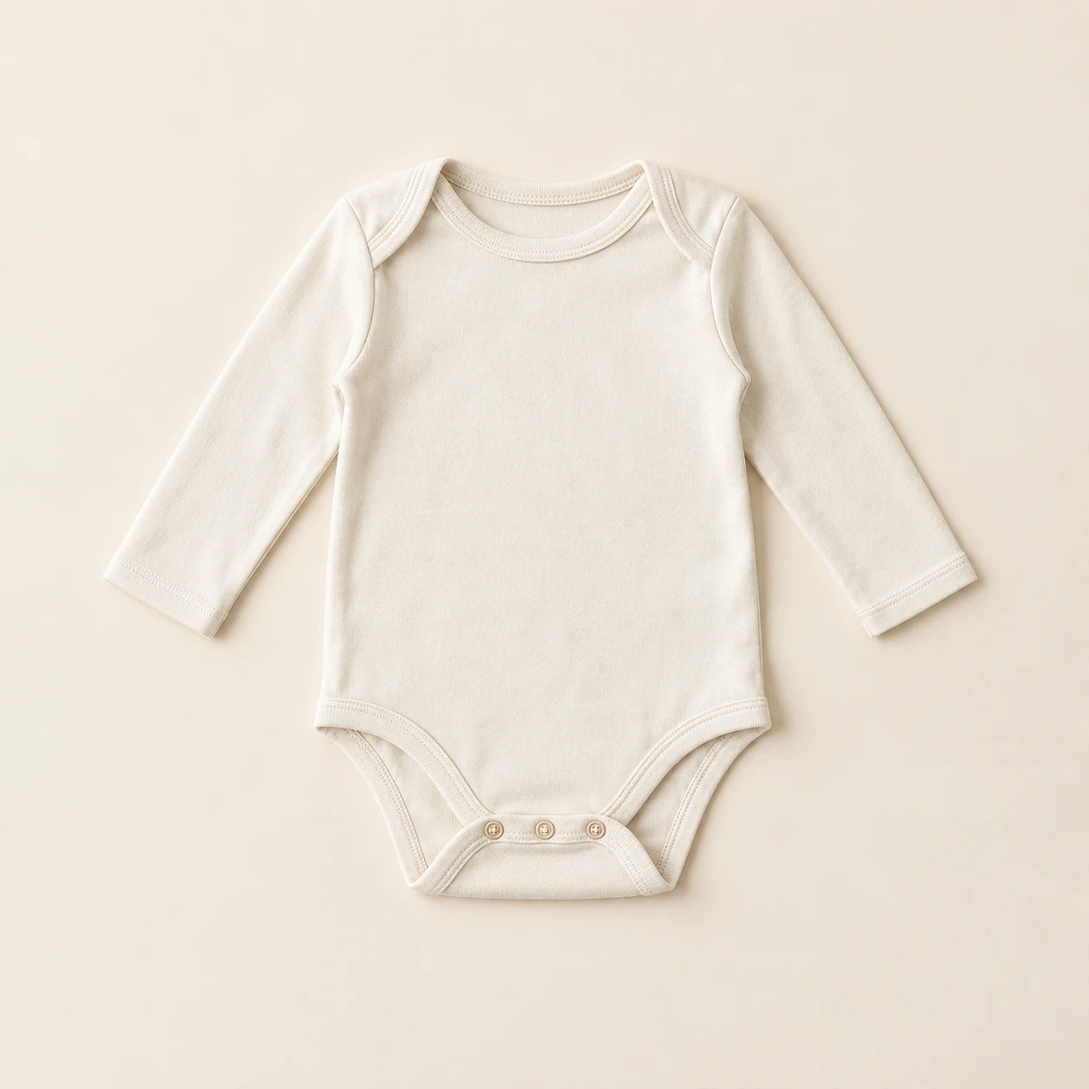
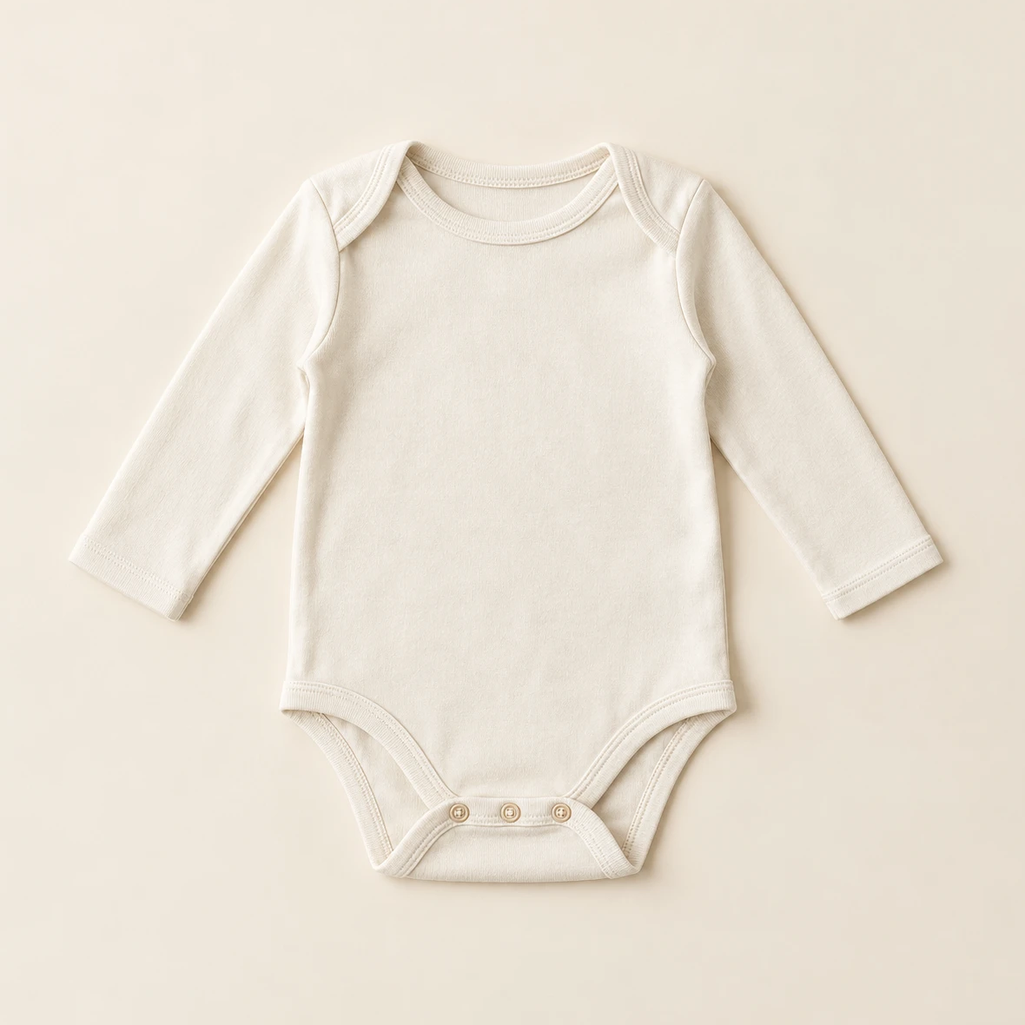
Make product-card image framing consistent: thin border, tighter crops
Two separate causes were behind the inconsistent-looking cards:

1. CSS: the pastel "matte" around each image was a fairly thick 14px
   inset, which read as a big colour block rather than a frame. Cut it
   down to a slim inset (6px, 5px on the smallest breakpoint) and
   turned the bottom-only accent into an actual border on all four
   sides, so every card gets the same thin coloured line around its
   photo rather than a lopsided patch of background colour.

2. Source photos: the seed images themselves weren't shot/cropped to
   a consistent subject-to-frame ratio. Most products filled ~85-90%
   of their canvas, but the sleepsuit photo only filled about 55% (a
   lot of empty backdrop above and below the garment) and the shoes
   photo had a similar issue plus a faint baked-in vignette rectangle.
   Cropped both tighter around the actual product so their apparent
   size now matches the rest of the catalogue.

Some residual difference in fill is unavoidable for products with very
different natural proportions (a pair of shoes is short and wide, a
sleepsuit is tall) inside a square frame — flagged to the user as a
photography-style-guide point for real product shoots at go-live:
shoot every item centred against the same backdrop with the product's
longest edge at a consistent percentage of the frame, so this stays
consistent without needing a crop fix later.

Claude-Session: https://claude.ai/code/session_01HTyTjFyGRUeSSR1UyPrw1p

diff --git a/app/globals.css b/app/globals.css
@@ -1,9 +1,9 @@
 @import url('https://fonts.googleapis.com/css2?family=DM+Sans:wght@400;500;600;700;800&family=Manrope:wght@400;500;600;700;800&display=swap');
 @import "tailwindcss";
-:root{--blue:#182bc4;--navy:#192a58;--sky:#e6ecff;--cream:#fcfaf6;--butter:#f8e994;--mint:#d1f1e3;--peach:#f7d5bf;--ink:#1d2d4a;--line:#d9dfeb;--background:#fff;--foreground:#1d2d4a;--muted-foreground:#65718a;--ring:#182bc4}*{box-sizing:border-box}html{scroll-behavior:smooth}body{margin:0;background:var(--cream);font-family:'DM Sans',Arial,sans-serif;color:var(--ink);font-size:16px}button,input,select{font:inherit}button{cursor:pointer}a{color:inherit;text-decoration:none}.tuck-app{min-height:100vh;overflow:hidden}.demo-ribbon{background:#ebefff;color:#36469e;font-size:12px;text-align:center;padding:8px 12px;font-weight:600;letter-spacing:.025em}.demo-ribbon span{padding:0 8px}.site-header{height:78px;background:#fff;display:flex;align-items:center;justify-content:space-between;padding:0 max(4vw,24px);gap:22px;border-bottom:1px solid var(--line);position:relative;z-index:2}.wordmark{border:0;background:none;display:flex;align-items:center;gap:10px;color:var(--blue);font-family:'Manrope',sans-serif;font-weight:800;font-size:34px;letter-spacing:-.09em;white-space:nowrap}.wordmark-icon{font-size:26px;letter-spacing:-.14em;width:42px;height:42px;border-radius:15px;background:var(--blue);color:white;display:grid;place-items:center;padding-right:4px;transform:rotate(-6deg)}.wordmark-icon span,.wordmark-dot{color:#faab76}.site-header nav{display:flex;align-items:center;gap:clamp(15px,2.5vw,40px);height:100%}.site-header nav button{border:0;background:none;height:100%;color:#4a5b7e;font-weight:700;font-size:14px;white-space:nowrap;border-bottom:3px solid transparent}.site-header nav button:hover,.site-header nav .nav-active{color:var(--blue);border-bottom-color:var(--blue)}.header-actions{display:flex;gap:14px;align-items:center}.header-actions button{border:0;background:none;display:flex;align-items:center;gap:7px;color:var(--blue);font-size:14px;font-weight:700}.mini-count{font-size:12px}.header-actions .basket-button{background:var(--butter);padding:13px 15px;border-radius:12px;color:var(--ink)}.basket-button b{background:var(--blue);color:white;border-radius:50%;width:22px;height:22px;font-size:12px;display:grid;place-items:center}.utility-bar{height:43px;background:white;border-bottom:1px solid var(--line);padding:0 max(4vw,24px);display:flex;align-items:center;justify-content:space-between;color:#53617b;font-size:12px}.utility-bar>div{display:flex;align-items:center;gap:7px}.utility-bar button{border:0;background:none;color:var(--blue);display:flex;gap:5px;align-items:center;font-weight:700;text-decoration:underline;text-underline-offset:3px}.hero{display:grid;grid-template-columns:47% 53%;min-height:480px;background:#eef0ff}.hero-content{padding:74px 6vw 64px max(5vw,28px);display:flex;flex-direction:column;align-items:flex-start;justify-content:center}.kicker{font-size:12px;font-weight:800;letter-spacing:.16em;color:var(--blue);margin:0 0 18px}.hero h1,.section-hero h1,.account-heading h1{font-family:'Manrope',sans-serif;font-size:clamp(55px,5.8vw,94px);line-height:.99;letter-spacing:-.075em;color:var(--blue);font-weight:800;margin:0 0 25px}.hero h1 i,.section-hero h1 i{font-style:normal;color:#e37f58}.hero-content>p:not(.kicker){max-width:450px;font-size:17px;line-height:1.65;color:#536485;margin:0 0 30px}.hero-actions{display:flex;align-items:center;gap:24px;flex-wrap:wrap}.hero-actions button:first-child,.section-hero>button{border:0;background:var(--blue);color:white;border-radius:12px;padding:17px 21px;display:flex;align-items:center;gap:28px;font-weight:800;font-size:14px}.hero-actions button:last-child{border:0;background:none;color:var(--blue);font-weight:800;font-size:14px}.hero-art{position:relative;overflow:hidden;min-height:480px;background:#b9c2f6}.hero-art img{width:100%;height:100%;object-fit:cover}.hero-sticker{position:absolute;right:6%;bottom:8%;background:var(--butter);width:160px;height:160px;border-radius:50%;display:grid;place-items:center;text-align:center;transform:rotate(12deg);font-family:'Manrope',sans-serif;font-size:20px;font-weight:800;line-height:1.1;letter-spacing:-.05em;color:var(--blue);box-shadow:0 10px 24px #2d3d8930}.journey-strip{display:grid;grid-template-columns:repeat(3,minmax(0,1fr));gap:2px;background:#dfe5ed;border-top:1px solid var(--line);border-bottom:1px solid var(--line)}.journey-strip button{background:#fff;border:0;display:grid;grid-template-columns:auto 1fr auto;grid-template-rows:auto auto;align-items:center;column-gap:15px;text-align:left;padding:26px max(2vw,15px);color:var(--ink);transition:background .2s}.journey-strip button:hover{background:#f4f6ff}.journey-strip span{grid-row:1/3;font-family:'Manrope',sans-serif;font-size:27px;font-weight:800;color:#9aa8dc}.journey-strip b{font-family:'Manrope',sans-serif;font-size:17px;letter-spacing:-.035em}.journey-strip small{grid-column:2;color:#74809a;font-size:12px}.journey-strip svg{grid-column:3;grid-row:1/3;color:var(--blue);width:18px}.section-hero{min-height:380px;padding:65px 6%;display:flex;flex-direction:column;align-items:flex-start;justify-content:center}.section-hero h1{font-size:clamp(49px,5vw,76px);margin-bottom:16px}.section-hero>p{max-width:520px;line-height:1.65;color:#4e5e7c;margin:0 0 24px}.repeat-hero{background:linear-gradient(105deg,#e0faed 0%,#e0faed 58%,#b8e3cd 58%,#d4f0dd 100%)}.repeat-hero h1 i{color:#268e72}.hire-hero{background:linear-gradient(105deg,#fce7dc 0%,#fce7dc 58%,#f2c3a8 58%,#fbe0d1 100%)}.benefit-line{display:flex;justify-content:center;gap:clamp(20px,6vw,100px);flex-wrap:wrap;padding:19px;background:#fff;color:#4c5e80;font-weight:700;font-size:13px}.benefit-line span{display:flex;align-items:center;gap:9px}.benefit-line svg{color:var(--blue)}.catalogue{padding:75px max(4vw,20px) 110px;max-width:1600px;margin:0 auto}.catalogue-heading{display:flex;justify-content:space-between;align-items:end;gap:20px;margin-bottom:32px}.catalogue-heading h2,.delivery-section h2{font-family:'Manrope',sans-serif;font-size:clamp(33px,3.3vw,54px);font-weight:800;line-height:1.12;letter-spacing:-.065em;color:var(--blue);margin:0 0 12px}.catalogue-heading p:not(.kicker){color:#67748a;margin:0}.result-count{font-size:13px;color:#6a7a91;white-space:nowrap}.category-nav{display:flex;gap:9px;overflow:auto;padding-bottom:17px;border-bottom:1px solid var(--line)}.category-nav button{padding:11px 17px;border-radius:25px;border:1px solid #cbd4e5;background:#fff;white-space:nowrap;font-weight:700;color:#576781;font-size:13px}.category-nav button.selected{color:#fff;background:var(--blue);border-color:var(--blue)}.catalogue-tools{display:flex;justify-content:space-between;gap:15px;padding:17px 0 26px;align-items:center}.catalogue-search{border:1px solid #cad4e8;background:white;border-radius:9px;padding:0 15px;height:48px;display:flex;align-items:center;gap:10px;min-width:min(380px,100%)}.catalogue-search svg{color:#8491aa}.catalogue-search input{border:0;outline:0;background:transparent;width:100%;font-size:14px;color:var(--ink)}.catalogue-tools>div{display:flex;gap:10px}.catalogue-tools>div label{height:48px;border:1px solid #cad4e8;border-radius:9px;background:white;padding:0 12px;display:flex;align-items:center;gap:9px;font-size:13px;font-weight:700;color:#6a7891}.catalogue-tools select{border:0;background:transparent;outline:0;color:var(--ink);font-size:13px;font-weight:700;min-width:0;flex:1}.product-grid{display:grid;grid-template-columns:repeat(4,minmax(0,1fr));gap:26px 17px}.product-card{background:#fff;border:1px solid #dfe4eb;border-radius:16px;overflow:hidden;display:flex;flex-direction:column;transition:box-shadow .2s,transform .2s;transform:translateZ(0);-webkit-transform:translateZ(0);-webkit-backface-visibility:hidden}@media(hover:hover) and (pointer:fine){.product-card:hover{box-shadow:0 16px 35px #263b741a;transform:translateY(-3px)}}.image-wrap{position:relative;aspect-ratio:1;padding:14px;background:#f3f2ed;overflow:hidden;transform:translateZ(0);-webkit-transform:translateZ(0);-webkit-backface-visibility:hidden}.image-button{border:0;padding:0;width:100%;height:100%;display:block}.product-image{width:100%;height:100%;object-fit:contain;display:block;background-color:#f4f1e9}.image-wrap .product-image{transition:transform .3s}@media(hover:hover) and (pointer:fine){.image-button:hover .product-image{transform:scale(1.045)}}.pill{position:absolute;top:11px;left:11px;background:var(--butter);color:var(--blue);font-size:10px;font-weight:800;padding:8px 11px;border-radius:7px;text-transform:uppercase;letter-spacing:.035em}.heart{position:absolute;right:11px;top:11px;background:#fff;border:0;border-radius:50%;width:35px;height:35px;display:grid;place-items:center;color:var(--blue)}.heart.saved{color:#ea785e}.product-details{display:flex;flex-direction:column;flex:1;padding:17px 17px 16px}.product-details>small{color:#74829a;font-size:12px;margin-bottom:7px}.product-details>button:not(.card-add){border:0;background:none;text-align:left;font-family:'Manrope',sans-serif;font-weight:800;color:var(--ink);font-size:17px;letter-spacing:-.035em;line-height:1.3;padding:0}.product-details>p{font-size:12px;color:#73819a;margin:8px 0 16px}.product-details>p span{padding:0 3px}.product-price{display:flex;align-items:baseline;gap:8px;margin-top:auto;margin-bottom:14px}.product-price strong{font-size:21px;font-family:'Manrope',sans-serif;letter-spacing:-.055em;color:var(--blue)}.product-price span{font-size:11px;color:#75839a}.low-stock{display:block;color:#e38162;font-size:11px;font-weight:700;margin:-8px 0 10px}.card-add{border:0;background:var(--butter);color:var(--blue);padding:12px 13px;border-radius:9px;font-size:13px;font-weight:800;display:flex;align-items:center;justify-content:space-between;width:100%}.card-add:hover{background:#f5dc66}.no-results{text-align:center;background:#fff;padding:70px}.no-results h3{font-size:23px}.no-results button{background:var(--blue);color:#fff;border:0;padding:12px 18px;border-radius:8px}.delivery-section{display:grid;grid-template-columns:minmax(0,1fr) minmax(0,1fr);gap:8%;padding:85px max(6vw,24px);background:#e8f1ff}.delivery-section h2 i{font-style:normal;color:#e38162}.delivery-section>div:first-child>p:not(.kicker){max-width:450px;line-height:1.7;color:#566782}.delivery-box{background:#fff;border-radius:18px;padding:32px;box-shadow:0 15px 30px #152a8120;display:flex;flex-direction:column;justify-content:center}.delivery-box>label{font-weight:800;font-size:14px}.postcode-row{display:flex;gap:9px;margin:13px 0}.postcode-row input{min-width:0;flex:1;border:1px solid #bbc8e0;border-radius:8px;padding:13px 15px;text-transform:uppercase}.postcode-row button{border:0;background:var(--blue);color:white;border-radius:8px;padding:0 17px;display:flex;align-items:center;gap:8px;font-weight:800;flex:none}.slot-intro{font-size:13px;font-weight:700;margin-top:21px}.slots{display:grid;grid-template-columns:repeat(2,minmax(0,1fr));gap:8px}.slots button{padding:12px 8px;background:#f4f6ff;border:1px solid #cad3ed;color:#3d5085;border-radius:7px;font-size:12px;font-weight:700}.slots button.picked{background:#e1f7e9;border-color:#309977}.delivery-box>small{display:block;color:#8290a4;margin-top:13px;font-size:11px}.account-page{padding:70px max(4vw,20px) 110px;max-width:1450px;margin:auto}.account-heading h1{font-size:clamp(45px,5vw,70px)}.account-heading>p:last-child{color:#65748e}.account-grid{display:grid;grid-template-columns:minmax(0,1.2fr) minmax(0,1fr);gap:20px;margin:40px 0 20px}.account-grid article,.account-foot>div,.orders-card{background:#fff;border:1px solid #dae2eb;border-radius:18px;padding:30px}.next-card{background:#e6f5ec!important}.card-heading{display:flex;align-items:center;justify-content:space-between;font-size:11px;font-weight:800;letter-spacing:.12em;color:var(--blue)}.card-heading span{display:flex;align-items:center;gap:8px}.card-heading b{background:white;border-radius:15px;padding:5px 9px}.account-grid h2{font-family:'Manrope',sans-serif;font-size:26px;letter-spacing:-.05em;margin:22px 0 8px}.account-grid p{color:#6b7c8e;font-size:14px;line-height:1.6}.box-list{display:grid;gap:9px;border-top:1px solid #bedcc9;border-bottom:1px solid #bedcc9;padding:18px 0;margin:20px 0}.box-list span{display:flex;justify-content:space-between;font-size:14px}.card-actions{display:flex;gap:12px;flex-wrap:wrap}.card-actions button,.fav-row button,.account-foot button{border:1px solid var(--blue);background:var(--blue);color:white;border-radius:8px;padding:11px 15px;font-weight:700;font-size:13px}.card-actions button+button{background:transparent;color:var(--blue)}.fav-row{display:flex;align-items:center;gap:13px;margin:15px 0}.fav-row .product-image{width:65px;height:65px;border-radius:8px;flex:none}.fav-row>div:nth-child(2){flex:1}.fav-row b,.fav-row small{display:block;font-size:13px}.fav-row small{color:#8793a5;margin-top:4px}.account-foot{display:grid;grid-template-columns:minmax(0,1fr) minmax(0,1fr);gap:20px}.account-foot svg{color:var(--blue)}.account-foot h3{font-family:'Manrope',sans-serif;font-size:23px;letter-spacing:-.05em;margin:12px 0 5px}.account-foot p{max-width:390px;color:#64738c;font-size:14px;line-height:1.6}.account-foot button{display:flex;align-items:center;gap:12px;margin-top:20px}footer{background:#182666;color:white;padding:70px max(5vw,22px) 25px;display:grid;grid-template-columns:minmax(0,1.4fr) minmax(0,1fr);gap:40px}footer .footer-brand{font-family:'Manrope',sans-serif;font-size:52px;font-weight:800;letter-spacing:-.1em}footer .footer-brand span{color:#f6ae78}footer p{color:#c3ccee;font-size:13px;line-height:1.7;max-width:270px}footer b{display:block;font-size:14px;margin:12px 0 22px}footer button,footer div>a{display:block;border:0;background:transparent;color:#c3ccee;padding:0;margin:12px 0;font-size:13px}.footer-legal{grid-column:1/-1;border-top:1px solid #4454a0;padding-top:22px}.footer-legal-lead{margin:0 0 12px;color:#aeb9e9;font-size:12px}.footer-legal-links{display:flex;flex-wrap:wrap;gap:10px 22px}.footer-legal-links a{color:#aeb9e9;font-size:12px;font-weight:700}.footer-legal-links a:hover{text-decoration:underline;text-underline-offset:3px}.basket-sheet{width:min(520px,100%)!important;max-width:none!important;background:#fff!important;padding:25px!important;gap:0!important}.basket-sheet [data-slot=sheet-title]{font-family:'Manrope',sans-serif;font-size:26px;letter-spacing:-.05em;color:var(--blue)}.basket-sheet [data-slot=sheet-title] span{font-size:16px}.basket-sheet [data-slot=sheet-description]{font-size:13px;color:#78869d}.basket-lines{overflow:auto;flex:1;margin-top:18px}.basket-line{display:grid;grid-template-columns:72px 1fr auto;align-items:start;gap:13px;border-bottom:1px solid var(--line);padding:17px 0;font-size:13px}.basket-line>.product-image{height:78px;border-radius:8px}.basket-line strong,.basket-line small{display:block}.basket-line small{color:#7e8ca1;margin:5px 0 10px}.basket-line>b{white-space:nowrap}.qty{display:inline-flex;align-items:center;border:1px solid #c8d2e5;border-radius:6px;gap:10px}.qty button{border:0;background:none;padding:6px;color:var(--blue)}.basket-summary{border-top:1px solid var(--line);padding-top:22px}.basket-summary>div{display:flex;justify-content:space-between;font-size:17px}.basket-summary p{font-size:12px;color:#77859c;line-height:1.5;margin:12px 0}.basket-summary>button,.detail-add{display:flex;align-items:center;justify-content:space-between;background:var(--blue);border:0;border-radius:9px;color:white;padding:15px 19px;width:100%;font-weight:800;font-size:14px}.basket-empty{margin:auto;text-align:center}.basket-empty svg{color:var(--blue);margin:auto}.basket-empty h3{font-family:'Manrope',sans-serif;font-size:24px}.basket-empty p{color:#687691}.basket-empty button{background:var(--blue);color:#fff;border:0;border-radius:8px;padding:13px 18px;display:flex;gap:10px;margin:22px auto}.product-dialog{max-width:850px!important;padding:0!important;grid-template-columns:minmax(0,46%) minmax(0,54%)!important;gap:0!important;max-height:90vh;max-height:90dvh;overflow:auto;border:0!important;border-radius:16px!important}.detail-image{min-height:540px;background:#f3f1e9}.detail-panel{padding:52px 35px 32px}.detail-panel [data-slot=dialog-title]{font-family:'Manrope',sans-serif;font-size:34px;line-height:1.15;letter-spacing:-.065em;color:var(--blue)}.detail-panel [data-slot=dialog-description]{margin-top:8px}.detail-panel .kicker{margin-bottom:5px}.detail-price{display:block;font-family:'Manrope',sans-serif;font-size:26px;color:var(--blue);margin:24px 0 10px}.detail-price small{font-family:'DM Sans',sans-serif;font-size:13px;font-weight:500;color:#77859c}.detail-description{font-size:14px;line-height:1.6;color:#65748e;margin-bottom:25px}.option-label{font-size:11px;letter-spacing:.14em;font-weight:800;margin:15px 0 10px}.choice{background:#fff;border:1px solid #cfd8ea;border-radius:9px;padding:13px 16px;display:flex;justify-content:space-between;width:100%;font-size:14px;margin:8px 0}.choice.selected-choice{border:2px solid var(--blue);background:#f3f5ff}.choice b{color:var(--blue)}.term-select{display:flex;justify-content:space-between;align-items:center;font-size:14px;margin:16px 0}.term-select select,.checkout-slot select{border:1px solid #cbd5e9;border-radius:7px;padding:9px;background:#fff;min-width:0;max-width:100%}.detail-fine{font-size:12px;color:#7b879d;line-height:1.5}.detail-add{margin-top:25px}.checkout-dialog{background:#fff!important;max-width:560px!important}.checkout-dialog [data-slot=dialog-title]{font-family:'Manrope',sans-serif;font-size:29px;letter-spacing:-.05em;color:var(--blue)}.checkout-rows{border-top:1px solid var(--line);margin-top:14px}.checkout-rows>div{display:flex;justify-content:space-between;gap:10px;padding:14px 0;border-bottom:1px solid var(--line);font-size:14px}.checkout-rows small{color:#8390a2}.checkout-slot{display:flex;justify-content:space-between;align-items:center;font-size:14px;font-weight:700}.toast{position:fixed;bottom:22px;left:50%;transform:translateX(-50%);background:#17276e;color:white;z-index:100;border-radius:10px;box-shadow:0 10px 25px #0d1f7833;padding:13px 15px;display:flex;align-items:center;gap:20px;font-size:13px;font-weight:700}.toast button{color:white;border:0;background:none}
+:root{--blue:#182bc4;--navy:#192a58;--sky:#e6ecff;--cream:#fcfaf6;--butter:#f8e994;--mint:#d1f1e3;--peach:#f7d5bf;--ink:#1d2d4a;--line:#d9dfeb;--background:#fff;--foreground:#1d2d4a;--muted-foreground:#65718a;--ring:#182bc4}*{box-sizing:border-box}html{scroll-behavior:smooth}body{margin:0;background:var(--cream);font-family:'DM Sans',Arial,sans-serif;color:var(--ink);font-size:16px}button,input,select{font:inherit}button{cursor:pointer}a{color:inherit;text-decoration:none}.tuck-app{min-height:100vh;overflow:hidden}.demo-ribbon{background:#ebefff;color:#36469e;font-size:12px;text-align:center;padding:8px 12px;font-weight:600;letter-spacing:.025em}.demo-ribbon span{padding:0 8px}.site-header{height:78px;background:#fff;display:flex;align-items:center;justify-content:space-between;padding:0 max(4vw,24px);gap:22px;border-bottom:1px solid var(--line);position:relative;z-index:2}.wordmark{border:0;background:none;display:flex;align-items:center;gap:10px;color:var(--blue);font-family:'Manrope',sans-serif;font-weight:800;font-size:34px;letter-spacing:-.09em;white-space:nowrap}.wordmark-icon{font-size:26px;letter-spacing:-.14em;width:42px;height:42px;border-radius:15px;background:var(--blue);color:white;display:grid;place-items:center;padding-right:4px;transform:rotate(-6deg)}.wordmark-icon span,.wordmark-dot{color:#faab76}.site-header nav{display:flex;align-items:center;gap:clamp(15px,2.5vw,40px);height:100%}.site-header nav button{border:0;background:none;height:100%;color:#4a5b7e;font-weight:700;font-size:14px;white-space:nowrap;border-bottom:3px solid transparent}.site-header nav button:hover,.site-header nav .nav-active{color:var(--blue);border-bottom-color:var(--blue)}.header-actions{display:flex;gap:14px;align-items:center}.header-actions button{border:0;background:none;display:flex;align-items:center;gap:7px;color:var(--blue);font-size:14px;font-weight:700}.mini-count{font-size:12px}.header-actions .basket-button{background:var(--butter);padding:13px 15px;border-radius:12px;color:var(--ink)}.basket-button b{background:var(--blue);color:white;border-radius:50%;width:22px;height:22px;font-size:12px;display:grid;place-items:center}.utility-bar{height:43px;background:white;border-bottom:1px solid var(--line);padding:0 max(4vw,24px);display:flex;align-items:center;justify-content:space-between;color:#53617b;font-size:12px}.utility-bar>div{display:flex;align-items:center;gap:7px}.utility-bar button{border:0;background:none;color:var(--blue);display:flex;gap:5px;align-items:center;font-weight:700;text-decoration:underline;text-underline-offset:3px}.hero{display:grid;grid-template-columns:47% 53%;min-height:480px;background:#eef0ff}.hero-content{padding:74px 6vw 64px max(5vw,28px);display:flex;flex-direction:column;align-items:flex-start;justify-content:center}.kicker{font-size:12px;font-weight:800;letter-spacing:.16em;color:var(--blue);margin:0 0 18px}.hero h1,.section-hero h1,.account-heading h1{font-family:'Manrope',sans-serif;font-size:clamp(55px,5.8vw,94px);line-height:.99;letter-spacing:-.075em;color:var(--blue);font-weight:800;margin:0 0 25px}.hero h1 i,.section-hero h1 i{font-style:normal;color:#e37f58}.hero-content>p:not(.kicker){max-width:450px;font-size:17px;line-height:1.65;color:#536485;margin:0 0 30px}.hero-actions{display:flex;align-items:center;gap:24px;flex-wrap:wrap}.hero-actions button:first-child,.section-hero>button{border:0;background:var(--blue);color:white;border-radius:12px;padding:17px 21px;display:flex;align-items:center;gap:28px;font-weight:800;font-size:14px}.hero-actions button:last-child{border:0;background:none;color:var(--blue);font-weight:800;font-size:14px}.hero-art{position:relative;overflow:hidden;min-height:480px;background:#b9c2f6}.hero-art img{width:100%;height:100%;object-fit:cover}.hero-sticker{position:absolute;right:6%;bottom:8%;background:var(--butter);width:160px;height:160px;border-radius:50%;display:grid;place-items:center;text-align:center;transform:rotate(12deg);font-family:'Manrope',sans-serif;font-size:20px;font-weight:800;line-height:1.1;letter-spacing:-.05em;color:var(--blue);box-shadow:0 10px 24px #2d3d8930}.journey-strip{display:grid;grid-template-columns:repeat(3,minmax(0,1fr));gap:2px;background:#dfe5ed;border-top:1px solid var(--line);border-bottom:1px solid var(--line)}.journey-strip button{background:#fff;border:0;display:grid;grid-template-columns:auto 1fr auto;grid-template-rows:auto auto;align-items:center;column-gap:15px;text-align:left;padding:26px max(2vw,15px);color:var(--ink);transition:background .2s}.journey-strip button:hover{background:#f4f6ff}.journey-strip span{grid-row:1/3;font-family:'Manrope',sans-serif;font-size:27px;font-weight:800;color:#9aa8dc}.journey-strip b{font-family:'Manrope',sans-serif;font-size:17px;letter-spacing:-.035em}.journey-strip small{grid-column:2;color:#74809a;font-size:12px}.journey-strip svg{grid-column:3;grid-row:1/3;color:var(--blue);width:18px}.section-hero{min-height:380px;padding:65px 6%;display:flex;flex-direction:column;align-items:flex-start;justify-content:center}.section-hero h1{font-size:clamp(49px,5vw,76px);margin-bottom:16px}.section-hero>p{max-width:520px;line-height:1.65;color:#4e5e7c;margin:0 0 24px}.repeat-hero{background:linear-gradient(105deg,#e0faed 0%,#e0faed 58%,#b8e3cd 58%,#d4f0dd 100%)}.repeat-hero h1 i{color:#268e72}.hire-hero{background:linear-gradient(105deg,#fce7dc 0%,#fce7dc 58%,#f2c3a8 58%,#fbe0d1 100%)}.benefit-line{display:flex;justify-content:center;gap:clamp(20px,6vw,100px);flex-wrap:wrap;padding:19px;background:#fff;color:#4c5e80;font-weight:700;font-size:13px}.benefit-line span{display:flex;align-items:center;gap:9px}.benefit-line svg{color:var(--blue)}.catalogue{padding:75px max(4vw,20px) 110px;max-width:1600px;margin:0 auto}.catalogue-heading{display:flex;justify-content:space-between;align-items:end;gap:20px;margin-bottom:32px}.catalogue-heading h2,.delivery-section h2{font-family:'Manrope',sans-serif;font-size:clamp(33px,3.3vw,54px);font-weight:800;line-height:1.12;letter-spacing:-.065em;color:var(--blue);margin:0 0 12px}.catalogue-heading p:not(.kicker){color:#67748a;margin:0}.result-count{font-size:13px;color:#6a7a91;white-space:nowrap}.category-nav{display:flex;gap:9px;overflow:auto;padding-bottom:17px;border-bottom:1px solid var(--line)}.category-nav button{padding:11px 17px;border-radius:25px;border:1px solid #cbd4e5;background:#fff;white-space:nowrap;font-weight:700;color:#576781;font-size:13px}.category-nav button.selected{color:#fff;background:var(--blue);border-color:var(--blue)}.catalogue-tools{display:flex;justify-content:space-between;gap:15px;padding:17px 0 26px;align-items:center}.catalogue-search{border:1px solid #cad4e8;background:white;border-radius:9px;padding:0 15px;height:48px;display:flex;align-items:center;gap:10px;min-width:min(380px,100%)}.catalogue-search svg{color:#8491aa}.catalogue-search input{border:0;outline:0;background:transparent;width:100%;font-size:14px;color:var(--ink)}.catalogue-tools>div{display:flex;gap:10px}.catalogue-tools>div label{height:48px;border:1px solid #cad4e8;border-radius:9px;background:white;padding:0 12px;display:flex;align-items:center;gap:9px;font-size:13px;font-weight:700;color:#6a7891}.catalogue-tools select{border:0;background:transparent;outline:0;color:var(--ink);font-size:13px;font-weight:700;min-width:0;flex:1}.product-grid{display:grid;grid-template-columns:repeat(4,minmax(0,1fr));gap:26px 17px}.product-card{background:#fff;border:1px solid #dfe4eb;border-radius:16px;overflow:hidden;display:flex;flex-direction:column;transition:box-shadow .2s,transform .2s;transform:translateZ(0);-webkit-transform:translateZ(0);-webkit-backface-visibility:hidden}@media(hover:hover) and (pointer:fine){.product-card:hover{box-shadow:0 16px 35px #263b741a;transform:translateY(-3px)}}.image-wrap{position:relative;aspect-ratio:1;padding:6px;background:#f3f2ed;overflow:hidden;transform:translateZ(0);-webkit-transform:translateZ(0);-webkit-backface-visibility:hidden}.image-button{border:0;padding:0;width:100%;height:100%;display:block}.product-image{width:100%;height:100%;object-fit:contain;display:block;background-color:#f4f1e9}.image-wrap .product-image{transition:transform .3s}@media(hover:hover) and (pointer:fine){.image-button:hover .product-image{transform:scale(1.045)}}.pill{position:absolute;top:11px;left:11px;background:var(--butter);color:var(--blue);font-size:10px;font-weight:800;padding:8px 11px;border-radius:7px;text-transform:uppercase;letter-spacing:.035em}.heart{position:absolute;right:11px;top:11px;background:#fff;border:0;border-radius:50%;width:35px;height:35px;display:grid;place-items:center;color:var(--blue)}.heart.saved{color:#ea785e}.product-details{display:flex;flex-direction:column;flex:1;padding:17px 17px 16px}.product-details>small{color:#74829a;font-size:12px;margin-bottom:7px}.product-details>button:not(.card-add){border:0;background:none;text-align:left;font-family:'Manrope',sans-serif;font-weight:800;color:var(--ink);font-size:17px;letter-spacing:-.035em;line-height:1.3;padding:0}.product-details>p{font-size:12px;color:#73819a;margin:8px 0 16px}.product-details>p span{padding:0 3px}.product-price{display:flex;align-items:baseline;gap:8px;margin-top:auto;margin-bottom:14px}.product-price strong{font-size:21px;font-family:'Manrope',sans-serif;letter-spacing:-.055em;color:var(--blue)}.product-price span{font-size:11px;color:#75839a}.low-stock{display:block;color:#e38162;font-size:11px;font-weight:700;margin:-8px 0 10px}.card-add{border:0;background:var(--butter);color:var(--blue);padding:12px 13px;border-radius:9px;font-size:13px;font-weight:800;display:flex;align-items:center;justify-content:space-between;width:100%}.card-add:hover{background:#f5dc66}.no-results{text-align:center;background:#fff;padding:70px}.no-results h3{font-size:23px}.no-results button{background:var(--blue);color:#fff;border:0;padding:12px 18px;border-radius:8px}.delivery-section{display:grid;grid-template-columns:minmax(0,1fr) minmax(0,1fr);gap:8%;padding:85px max(6vw,24px);background:#e8f1ff}.delivery-section h2 i{font-style:normal;color:#e38162}.delivery-section>div:first-child>p:not(.kicker){max-width:450px;line-height:1.7;color:#566782}.delivery-box{background:#fff;border-radius:18px;padding:32px;box-shadow:0 15px 30px #152a8120;display:flex;flex-direction:column;justify-content:center}.delivery-box>label{font-weight:800;font-size:14px}.postcode-row{display:flex;gap:9px;margin:13px 0}.postcode-row input{min-width:0;flex:1;border:1px solid #bbc8e0;border-radius:8px;padding:13px 15px;text-transform:uppercase}.postcode-row button{border:0;background:var(--blue);color:white;border-radius:8px;padding:0 17px;display:flex;align-items:center;gap:8px;font-weight:800;flex:none}.slot-intro{font-size:13px;font-weight:700;margin-top:21px}.slots{display:grid;grid-template-columns:repeat(2,minmax(0,1fr));gap:8px}.slots button{padding:12px 8px;background:#f4f6ff;border:1px solid #cad3ed;color:#3d5085;border-radius:7px;font-size:12px;font-weight:700}.slots button.picked{background:#e1f7e9;border-color:#309977}.delivery-box>small{display:block;color:#8290a4;margin-top:13px;font-size:11px}.account-page{padding:70px max(4vw,20px) 110px;max-width:1450px;margin:auto}.account-heading h1{font-size:clamp(45px,5vw,70px)}.account-heading>p:last-child{color:#65748e}.account-grid{display:grid;grid-template-columns:minmax(0,1.2fr) minmax(0,1fr);gap:20px;margin:40px 0 20px}.account-grid article,.account-foot>div,.orders-card{background:#fff;border:1px solid #dae2eb;border-radius:18px;padding:30px}.next-card{background:#e6f5ec!important}.card-heading{display:flex;align-items:center;justify-content:space-between;font-size:11px;font-weight:800;letter-spacing:.12em;color:var(--blue)}.card-heading span{display:flex;align-items:center;gap:8px}.card-heading b{background:white;border-radius:15px;padding:5px 9px}.account-grid h2{font-family:'Manrope',sans-serif;font-size:26px;letter-spacing:-.05em;margin:22px 0 8px}.account-grid p{color:#6b7c8e;font-size:14px;line-height:1.6}.box-list{display:grid;gap:9px;border-top:1px solid #bedcc9;border-bottom:1px solid #bedcc9;padding:18px 0;margin:20px 0}.box-list span{display:flex;justify-content:space-between;font-size:14px}.card-actions{display:flex;gap:12px;flex-wrap:wrap}.card-actions button,.fav-row button,.account-foot button{border:1px solid var(--blue);background:var(--blue);color:white;border-radius:8px;padding:11px 15px;font-weight:700;font-size:13px}.card-actions button+button{background:transparent;color:var(--blue)}.fav-row{display:flex;align-items:center;gap:13px;margin:15px 0}.fav-row .product-image{width:65px;height:65px;border-radius:8px;flex:none}.fav-row>div:nth-child(2){flex:1}.fav-row b,.fav-row small{display:block;font-size:13px}.fav-row small{color:#8793a5;margin-top:4px}.account-foot{display:grid;grid-template-columns:minmax(0,1fr) minmax(0,1fr);gap:20px}.account-foot svg{color:var(--blue)}.account-foot h3{font-family:'Manrope',sans-serif;font-size:23px;letter-spacing:-.05em;margin:12px 0 5px}.account-foot p{max-width:390px;color:#64738c;font-size:14px;line-height:1.6}.account-foot button{display:flex;align-items:center;gap:12px;margin-top:20px}footer{background:#182666;color:white;padding:70px max(5vw,22px) 25px;display:grid;grid-template-columns:minmax(0,1.4fr) minmax(0,1fr);gap:40px}footer .footer-brand{font-family:'Manrope',sans-serif;font-size:52px;font-weight:800;letter-spacing:-.1em}footer .footer-brand span{color:#f6ae78}footer p{color:#c3ccee;font-size:13px;line-height:1.7;max-width:270px}footer b{display:block;font-size:14px;margin:12px 0 22px}footer button,footer div>a{display:block;border:0;background:transparent;color:#c3ccee;padding:0;margin:12px 0;font-size:13px}.footer-legal{grid-column:1/-1;border-top:1px solid #4454a0;padding-top:22px}.footer-legal-lead{margin:0 0 12px;color:#aeb9e9;font-size:12px}.footer-legal-links{display:flex;flex-wrap:wrap;gap:10px 22px}.footer-legal-links a{color:#aeb9e9;font-size:12px;font-weight:700}.footer-legal-links a:hover{text-decoration:underline;text-underline-offset:3px}.basket-sheet{width:min(520px,100%)!important;max-width:none!important;background:#fff!important;padding:25px!important;gap:0!important}.basket-sheet [data-slot=sheet-title]{font-family:'Manrope',sans-serif;font-size:26px;letter-spacing:-.05em;color:var(--blue)}.basket-sheet [data-slot=sheet-title] span{font-size:16px}.basket-sheet [data-slot=sheet-description]{font-size:13px;color:#78869d}.basket-lines{overflow:auto;flex:1;margin-top:18px}.basket-line{display:grid;grid-template-columns:72px 1fr auto;align-items:start;gap:13px;border-bottom:1px solid var(--line);padding:17px 0;font-size:13px}.basket-line>.product-image{height:78px;border-radius:8px}.basket-line strong,.basket-line small{display:block}.basket-line small{color:#7e8ca1;margin:5px 0 10px}.basket-line>b{white-space:nowrap}.qty{display:inline-flex;align-items:center;border:1px solid #c8d2e5;border-radius:6px;gap:10px}.qty button{border:0;background:none;padding:6px;color:var(--blue)}.basket-summary{border-top:1px solid var(--line);padding-top:22px}.basket-summary>div{display:flex;justify-content:space-between;font-size:17px}.basket-summary p{font-size:12px;color:#77859c;line-height:1.5;margin:12px 0}.basket-summary>button,.detail-add{display:flex;align-items:center;justify-content:space-between;background:var(--blue);border:0;border-radius:9px;color:white;padding:15px 19px;width:100%;font-weight:800;font-size:14px}.basket-empty{margin:auto;text-align:center}.basket-empty svg{color:var(--blue);margin:auto}.basket-empty h3{font-family:'Manrope',sans-serif;font-size:24px}.basket-empty p{color:#687691}.basket-empty button{background:var(--blue);color:#fff;border:0;border-radius:8px;padding:13px 18px;display:flex;gap:10px;margin:22px auto}.product-dialog{max-width:850px!important;padding:0!important;grid-template-columns:minmax(0,46%) minmax(0,54%)!important;gap:0!important;max-height:90vh;max-height:90dvh;overflow:auto;border:0!important;border-radius:16px!important}.detail-image{min-height:540px;background:#f3f1e9}.detail-panel{padding:52px 35px 32px}.detail-panel [data-slot=dialog-title]{font-family:'Manrope',sans-serif;font-size:34px;line-height:1.15;letter-spacing:-.065em;color:var(--blue)}.detail-panel [data-slot=dialog-description]{margin-top:8px}.detail-panel .kicker{margin-bottom:5px}.detail-price{display:block;font-family:'Manrope',sans-serif;font-size:26px;color:var(--blue);margin:24px 0 10px}.detail-price small{font-family:'DM Sans',sans-serif;font-size:13px;font-weight:500;color:#77859c}.detail-description{font-size:14px;line-height:1.6;color:#65748e;margin-bottom:25px}.option-label{font-size:11px;letter-spacing:.14em;font-weight:800;margin:15px 0 10px}.choice{background:#fff;border:1px solid #cfd8ea;border-radius:9px;padding:13px 16px;display:flex;justify-content:space-between;width:100%;font-size:14px;margin:8px 0}.choice.selected-choice{border:2px solid var(--blue);background:#f3f5ff}.choice b{color:var(--blue)}.term-select{display:flex;justify-content:space-between;align-items:center;font-size:14px;margin:16px 0}.term-select select,.checkout-slot select{border:1px solid #cbd5e9;border-radius:7px;padding:9px;background:#fff;min-width:0;max-width:100%}.detail-fine{font-size:12px;color:#7b879d;line-height:1.5}.detail-add{margin-top:25px}.checkout-dialog{background:#fff!important;max-width:560px!important}.checkout-dialog [data-slot=dialog-title]{font-family:'Manrope',sans-serif;font-size:29px;letter-spacing:-.05em;color:var(--blue)}.checkout-rows{border-top:1px solid var(--line);margin-top:14px}.checkout-rows>div{display:flex;justify-content:space-between;gap:10px;padding:14px 0;border-bottom:1px solid var(--line);font-size:14px}.checkout-rows small{color:#8390a2}.checkout-slot{display:flex;justify-content:space-between;align-items:center;font-size:14px;font-weight:700}.toast{position:fixed;bottom:22px;left:50%;transform:translateX(-50%);background:#17276e;color:white;z-index:100;border-radius:10px;box-shadow:0 10px 25px #0d1f7833;padding:13px 15px;display:flex;align-items:center;gap:20px;font-size:13px;font-weight:700}.toast button{color:white;border:0;background:none}
 @media(max-width:1100px){.site-header nav{gap:14px}.site-header nav button{font-size:12px}.hero{grid-template-columns:50% 50%}.product-grid{grid-template-columns:repeat(3,minmax(0,1fr))}.hero-sticker{width:120px;height:120px;font-size:16px}}
 @media(max-width:780px){.demo-ribbon{font-size:10px}.site-header{height:auto;min-height:70px;flex-wrap:wrap;padding:12px 4%;gap:6px}.site-header nav{order:3;width:100%;overflow:auto;justify-content:space-between;height:42px}.site-header nav button{height:42px}.wordmark{font-size:29px}.utility-bar>span{display:none}.hero{display:flex;flex-direction:column}.hero-content{padding:52px 6%}.hero h1{font-size:clamp(56px,11vw,75px)}.hero-art{min-height:340px;height:55vw}.journey-strip button{padding:18px 12px;gap:7px}.journey-strip span{font-size:19px}.journey-strip b{font-size:13px}.journey-strip small{font-size:10px}.journey-strip svg{display:none}.catalogue{padding:60px 4% 75px}.product-grid{grid-template-columns:repeat(2,minmax(0,1fr))}.catalogue-tools{display:block}.catalogue-search{width:100%;margin-bottom:9px}.catalogue-tools>div{justify-content:space-between}.catalogue-tools>div label{flex:1;justify-content:space-between}.delivery-section{grid-template-columns:minmax(0,1fr);gap:25px;padding:60px 5%}.account-grid,.account-foot{grid-template-columns:minmax(0,1fr)}.product-dialog{display:block!important}.detail-image{min-height:0;height:300px}.detail-panel{padding:30px}.benefit-line{gap:16px;justify-content:flex-start;padding:16px 5%}}
-@media(max-width:480px){.header-actions button:first-child{display:none}.header-actions .basket-button span{display:none}.utility-bar{font-size:11px}.hero-art{height:370px}.hero-sticker{right:5%;bottom:5%}.catalogue-heading{display:block}.result-count{margin-top:12px}.product-grid{gap:10px}.product-details{padding:12px}.product-details>button:not(.card-add){font-size:15px}.product-details>p{font-size:11px}.product-price{display:block}.product-price strong{font-size:18px}.product-price span{display:block}.card-add{font-size:11px;padding:10px}.image-wrap{padding:10px}.delivery-box{padding:22px}.slots{grid-template-columns:minmax(0,1fr)}.basket-sheet{padding:16px!important}footer{grid-template-columns:minmax(0,1fr) minmax(0,1fr);gap:20px}footer>div:first-child{grid-column:1/-1}.footer-legal-links{gap:8px 16px}}
+@media(max-width:480px){.header-actions button:first-child{display:none}.header-actions .basket-button span{display:none}.utility-bar{font-size:11px}.hero-art{height:370px}.hero-sticker{right:5%;bottom:5%}.catalogue-heading{display:block}.result-count{margin-top:12px}.product-grid{gap:10px}.product-details{padding:12px}.product-details>button:not(.card-add){font-size:15px}.product-details>p{font-size:11px}.product-price{display:block}.product-price strong{font-size:18px}.product-price span{display:block}.card-add{font-size:11px;padding:10px}.image-wrap{padding:5px}.delivery-box{padding:22px}.slots{grid-template-columns:minmax(0,1fr)}.basket-sheet{padding:16px!important}footer{grid-template-columns:minmax(0,1fr) minmax(0,1fr);gap:20px}footer>div:first-child{grid-column:1/-1}.footer-legal-links{gap:8px 16px}}
 @media(prefers-reduced-motion:reduce){html{scroll-behavior:auto}*,*::before,*::after{animation-duration:.01ms!important;transition-duration:.01ms!important}}
 @media(min-width:781px){.hero{min-height:350px}.hero h1{font-size:clamp(52px,5vw,76px);margin-bottom:17px}.hero-content{padding-top:26px;padding-bottom:26px}.hero-content>p:not(.kicker){margin-bottom:20px}.hero-art{min-height:350px}.journey-strip button{padding-top:14px;padding-bottom:14px}.catalogue{padding-top:30px}.catalogue-heading{margin-bottom:18px}.catalogue-heading h2{font-size:clamp(32px,3vw,46px)}}
 
@@ -84,7 +84,7 @@ body{font-family:Arial,Helvetica,sans-serif;background:var(--cream)}
 .wordmark{letter-spacing:-.055em;color:var(--ink)}.wordmark-icon{border-radius:50%;font-family:Georgia,serif;font-weight:400;background:#354b45}
 .hero h1,.section-hero h1,.account-heading h1{line-height:1.04;letter-spacing:-.055em}.hero h1 i,.section-hero h1 i{font-style:italic;color:#a3796c}
 .hero-art{background:#e8e4dc}.hero-sticker{font-family:Georgia,serif;font-weight:400;border-radius:50%;color:var(--ink)}
-.product-card{border-color:var(--line);border-radius:6px;box-shadow:0 4px 20px #30443e09}.image-wrap{border-bottom:1px solid var(--tone-border)}.image-tone-0{background:#dfe8e1;--tone-border:#b8ccbd}.image-tone-1{background:#f4dcc9;--tone-border:#e3b896}.image-tone-2{background:#f2e0ac;--tone-border:#ddc178}.image-tone-3{background:#e8d6dc;--tone-border:#cfb0ba}
+.product-card{border-color:var(--line);border-radius:6px;box-shadow:0 4px 20px #30443e09}.image-wrap{border:3px solid var(--tone-border)}.image-tone-0{background:#dfe8e1;--tone-border:#b8ccbd}.image-tone-1{background:#f4dcc9;--tone-border:#e3b896}.image-tone-2{background:#f2e0ac;--tone-border:#ddc178}.image-tone-3{background:#e8d6dc;--tone-border:#cfb0ba}
 .category-nav button.selected,.basket-summary>button,.detail-add,.hero-actions button:first-child,.section-hero>button{background:#354b45;color:white}.category-nav button{border-radius:9px}.catalogue-search,.catalogue-tools>div label,.choice{border-color:#d8d5cc}
 .editorial-hero{background:#656f63}.editorial-hero::after{background:linear-gradient(90deg,rgba(37,52,46,.88),rgba(37,52,46,.68) 32%,rgba(37,52,46,.1) 72%)}.editorial-hero h1{letter-spacing:-.055em;text-shadow:0 2px 18px #24332d44}.editorial-hero h1 i{color:#e9d7b4;font-style:italic}.editorial-hero .kicker{color:#f3e9d7}.editorial-hero .hero-actions button:first-child{background:#faf8f4;color:#30443e}.editorial-hero .hero-actions button:last-child{background:#30443e33}
 .repeat-hero{background:linear-gradient(105deg,#eef0e9 0%,#eef0e9 58%,#d9e2d7 58%,#e7ebe1 100%)}.hire-hero{background:linear-gradient(105deg,#f5ebe5 0%,#f5ebe5 58%,#e8d7cb 58%,#f2e3d9 100%)}
